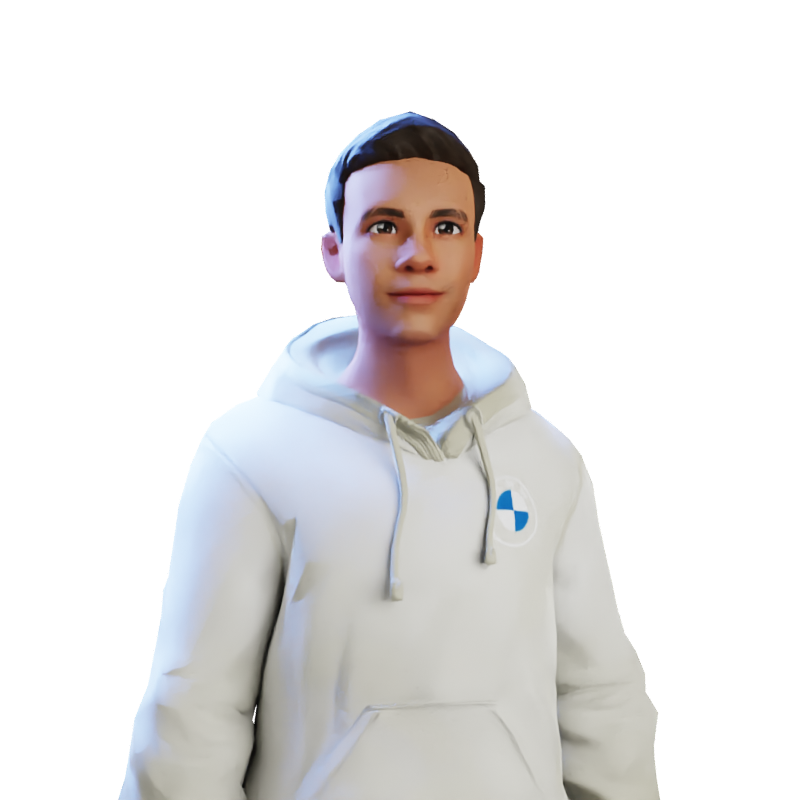
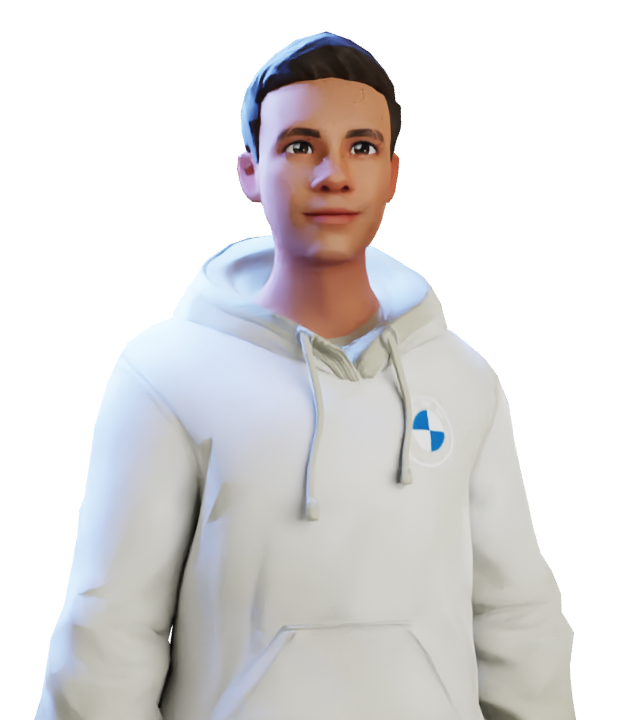
goal: roughly finished landing page

Changed region(s): [[0.0312, 0.0306, 0.9062, 1.0], [0.4062, 0.8556, 0.4688, 0.8861]]

diff --git a/components/About.tsx b/components/About.tsx
@@ -1,6 +1,7 @@
 import Image from "next/image";
 import { useEffect, useState } from "react";
 import { useTypewriter } from "react-simple-typewriter";
+import TypeWriter from "./TypeWriter";
 
 const About = () => {
   const [color, setColor] = useState("");
@@ -19,12 +20,12 @@ const About = () => {
       className="flex lg:flex-row pl-20  justify-around flex-col-reverse  "
       id="about"
     >
-      <div className="flex justify-center lg:w-[45%] sm:w-full sm:mt-20 lg:m-0">
+      <div className="flex justify-center lg:w-[45%] sm:w-full sm:mt-20 lg:m-0 overflow-clip rounded-full">
         <Image
-          src="/images/ava2.png"
+          src="/images/avatar3.png"
           alt="pic of my avatar"
-          width={400}
-          height={550}
+          width={560}
+          height={630}
         />
       </div>
       <div className="pl-2 flex flex-col w-full lg:w-[55%] pt-16">
@@ -39,6 +40,7 @@ const About = () => {
           I am a <span className={`${color} ml-4`}> {text}</span>
           <span className={`${color} blink`}>_</span>
         </span>
+        <TypeWriter />
         <button className="btn mx-auto lg:mx-0 py-4 mt-20 w-64 ">
           Hire Me
         </button>

diff --git a/styles/globals.css b/styles/globals.css
@@ -9,13 +9,24 @@ body {
   color: white;
   font-family: -apple-system, BlinkMacSystemFont, Segoe UI, Roboto, Oxygen,
     Ubuntu, Cantarell, Fira Sans, Droid Sans, Helvetica Neue, sans-serif;
+  postition: relative;
 
-  background-color: rgba(9, 13, 45, 1);
-  /* background: linear-gradient(
-    90deg,
-    rgba(9, 13, 45, 1) 60%,
-    rgba(3, 8, 85, 1) 100% 
-  ); */
+  /* background-color: rgba(9, 13, 45, 1); */
+  overflow: hidden;
+}
+
+body::before {
+  /* background: linear-gradient(to right, #30cfd0, #c43ad6); */
+  filter: blur(30px);
+  background-image: url("https://thumbs.dreamstime.com/b/dark-futuristic-sci-fi-glass-tunnel-d-illustration-background-wallpaper-future-scifi-glass-building-d-rendering-design-dark-159545882.jpg");
+  transform: scale(1.1);
+  background-repeat: no-repeat;
+  background-size: cover;
+  content: "";
+  height: 100%;
+  width: 100%;
+  position: absolute;
+  z-index: -1;
 }
 
 .text-gradient {
